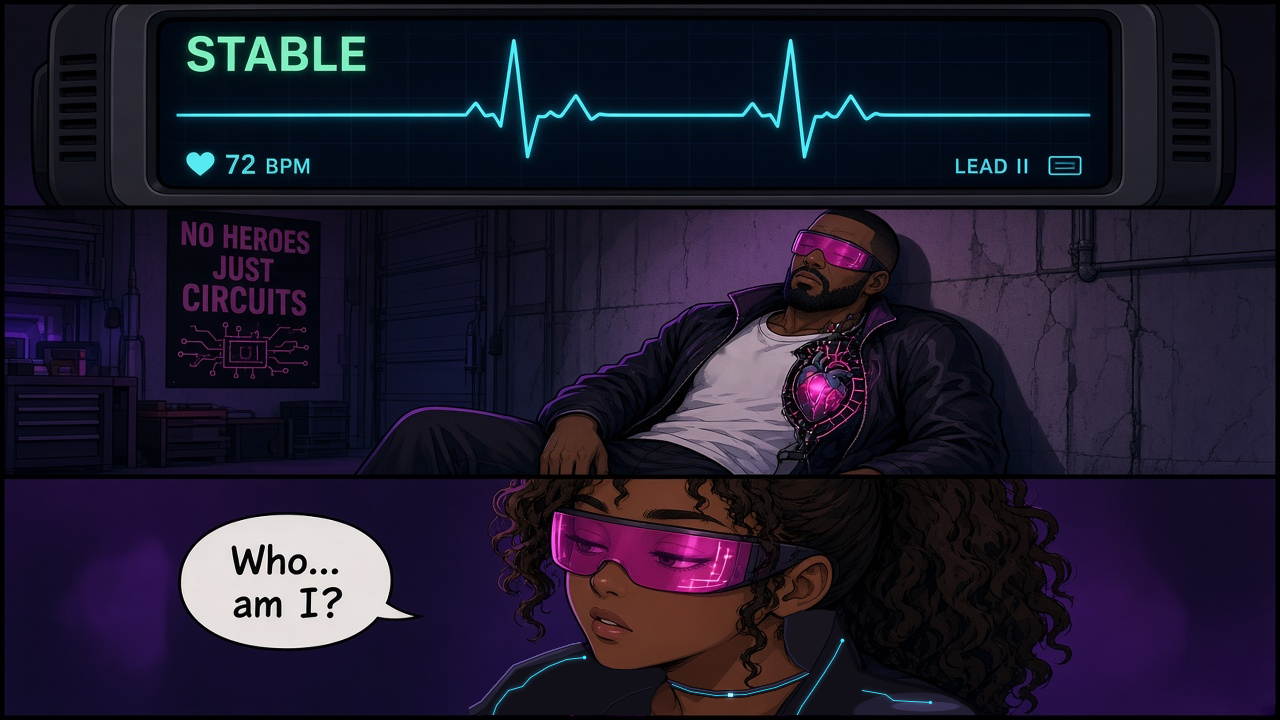
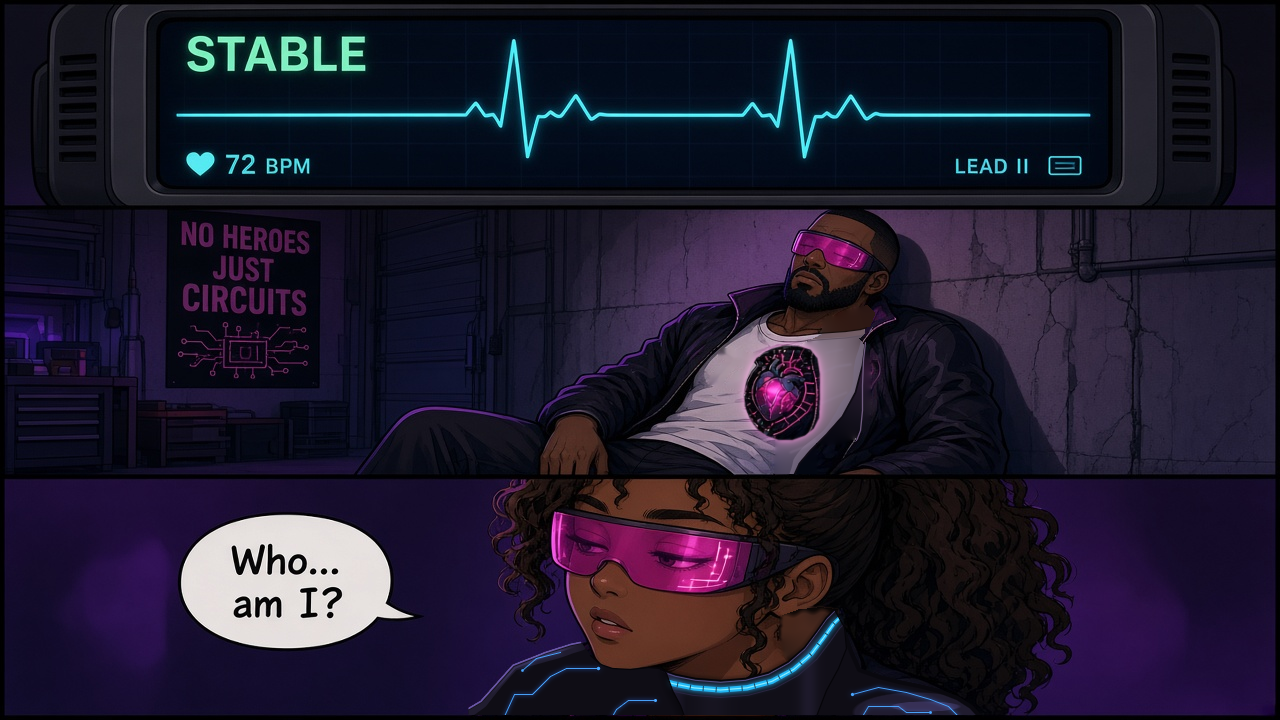
Page 8: Sierra collar like page 9, heart centered on 720's chest

diff --git a/index.html b/index.html
@@ -83,7 +83,7 @@
         <figure class="comic-page-frame">
           <img
             id="comic-page-img"
-            src="assets/comics/issue1/page-01.png?v=2"
+            src="assets/comics/issue1/page-01.png?v=3"
             alt="720: Soul Protocol Issue #1 - page 1"
             width="1280"
             height="720"
@@ -102,43 +102,43 @@
         <p class="comic-scroll-title">Full issue — scroll to read (no buttons needed)</p>
         <figure class="comic-scroll-page" id="issue1-p01">
           <figcaption class="comic-scroll-label">Page 1 of 10</figcaption>
-          <img src="assets/comics/issue1/page-01.png?v=2" alt="Issue #1 page 1" width="1280" height="720" loading="lazy" />
+          <img src="assets/comics/issue1/page-01.png?v=3" alt="Issue #1 page 1" width="1280" height="720" loading="lazy" />
         </figure>
         <figure class="comic-scroll-page" id="issue1-p02">
           <figcaption class="comic-scroll-label">Page 2 of 10</figcaption>
-          <img src="assets/comics/issue1/page-02.png?v=2" alt="Issue #1 page 2" width="1280" height="720" loading="lazy" />
+          <img src="assets/comics/issue1/page-02.png?v=3" alt="Issue #1 page 2" width="1280" height="720" loading="lazy" />
         </figure>
         <figure class="comic-scroll-page" id="issue1-p03">
           <figcaption class="comic-scroll-label">Page 3 of 10</figcaption>
-          <img src="assets/comics/issue1/page-03.png?v=2" alt="Issue #1 page 3" width="1280" height="720" loading="lazy" />
+          <img src="assets/comics/issue1/page-03.png?v=3" alt="Issue #1 page 3" width="1280" height="720" loading="lazy" />
         </figure>
         <figure class="comic-scroll-page" id="issue1-p04">
           <figcaption class="comic-scroll-label">Page 4 of 10</figcaption>
-          <img src="assets/comics/issue1/page-04.png?v=2" alt="Issue #1 page 4" width="1280" height="720" loading="lazy" />
+          <img src="assets/comics/issue1/page-04.png?v=3" alt="Issue #1 page 4" width="1280" height="720" loading="lazy" />
         </figure>
         <figure class="comic-scroll-page" id="issue1-p05">
           <figcaption class="comic-scroll-label">Page 5 of 10</figcaption>
-          <img src="assets/comics/issue1/page-05.png?v=2" alt="Issue #1 page 5" width="1280" height="720" loading="lazy" />
+          <img src="assets/comics/issue1/page-05.png?v=3" alt="Issue #1 page 5" width="1280" height="720" loading="lazy" />
         </figure>
         <figure class="comic-scroll-page" id="issue1-p06">
           <figcaption class="comic-scroll-label">Page 6 of 10</figcaption>
-          <img src="assets/comics/issue1/page-06.png?v=2" alt="Issue #1 page 6" width="1280" height="720" loading="lazy" />
+          <img src="assets/comics/issue1/page-06.png?v=3" alt="Issue #1 page 6" width="1280" height="720" loading="lazy" />
         </figure>
         <figure class="comic-scroll-page" id="issue1-p07">
           <figcaption class="comic-scroll-label">Page 7 of 10</figcaption>
-          <img src="assets/comics/issue1/page-07.png?v=2" alt="Issue #1 page 7" width="1280" height="720" loading="lazy" />
+          <img src="assets/comics/issue1/page-07.png?v=3" alt="Issue #1 page 7" width="1280" height="720" loading="lazy" />
         </figure>
         <figure class="comic-scroll-page" id="issue1-p08">
           <figcaption class="comic-scroll-label">Page 8 of 10</figcaption>
-          <img src="assets/comics/issue1/page-08.png?v=2" alt="Issue #1 page 8" width="1280" height="720" loading="lazy" />
+          <img src="assets/comics/issue1/page-08.png?v=3" alt="Issue #1 page 8" width="1280" height="720" loading="lazy" />
         </figure>
         <figure class="comic-scroll-page" id="issue1-p09">
           <figcaption class="comic-scroll-label">Page 9 of 10</figcaption>
-          <img src="assets/comics/issue1/page-09.png?v=2" alt="Issue #1 page 9" width="1280" height="720" loading="lazy" />
+          <img src="assets/comics/issue1/page-09.png?v=3" alt="Issue #1 page 9" width="1280" height="720" loading="lazy" />
         </figure>
         <figure class="comic-scroll-page" id="issue1-p10">
           <figcaption class="comic-scroll-label">Page 10 of 10</figcaption>
-          <img src="assets/comics/issue1/page-10.png?v=2" alt="Issue #1 page 10" width="1280" height="720" loading="lazy" />
+          <img src="assets/comics/issue1/page-10.png?v=3" alt="Issue #1 page 10" width="1280" height="720" loading="lazy" />
         </figure>
       </div>
 
@@ -315,7 +315,7 @@
       function pad(n) { return n < 10 ? "0" + n : String(n); }
 
       function show() {
-        img.src = "assets/comics/issue1/page-" + pad(page) + ".png?v=2&p=" + page;
+        img.src = "assets/comics/issue1/page-" + pad(page) + ".png?v=3&p=" + page;
         img.alt = "720: Soul Protocol Issue #1 - page " + page;
         var label = page + " / " + total;
         num.textContent = label;
